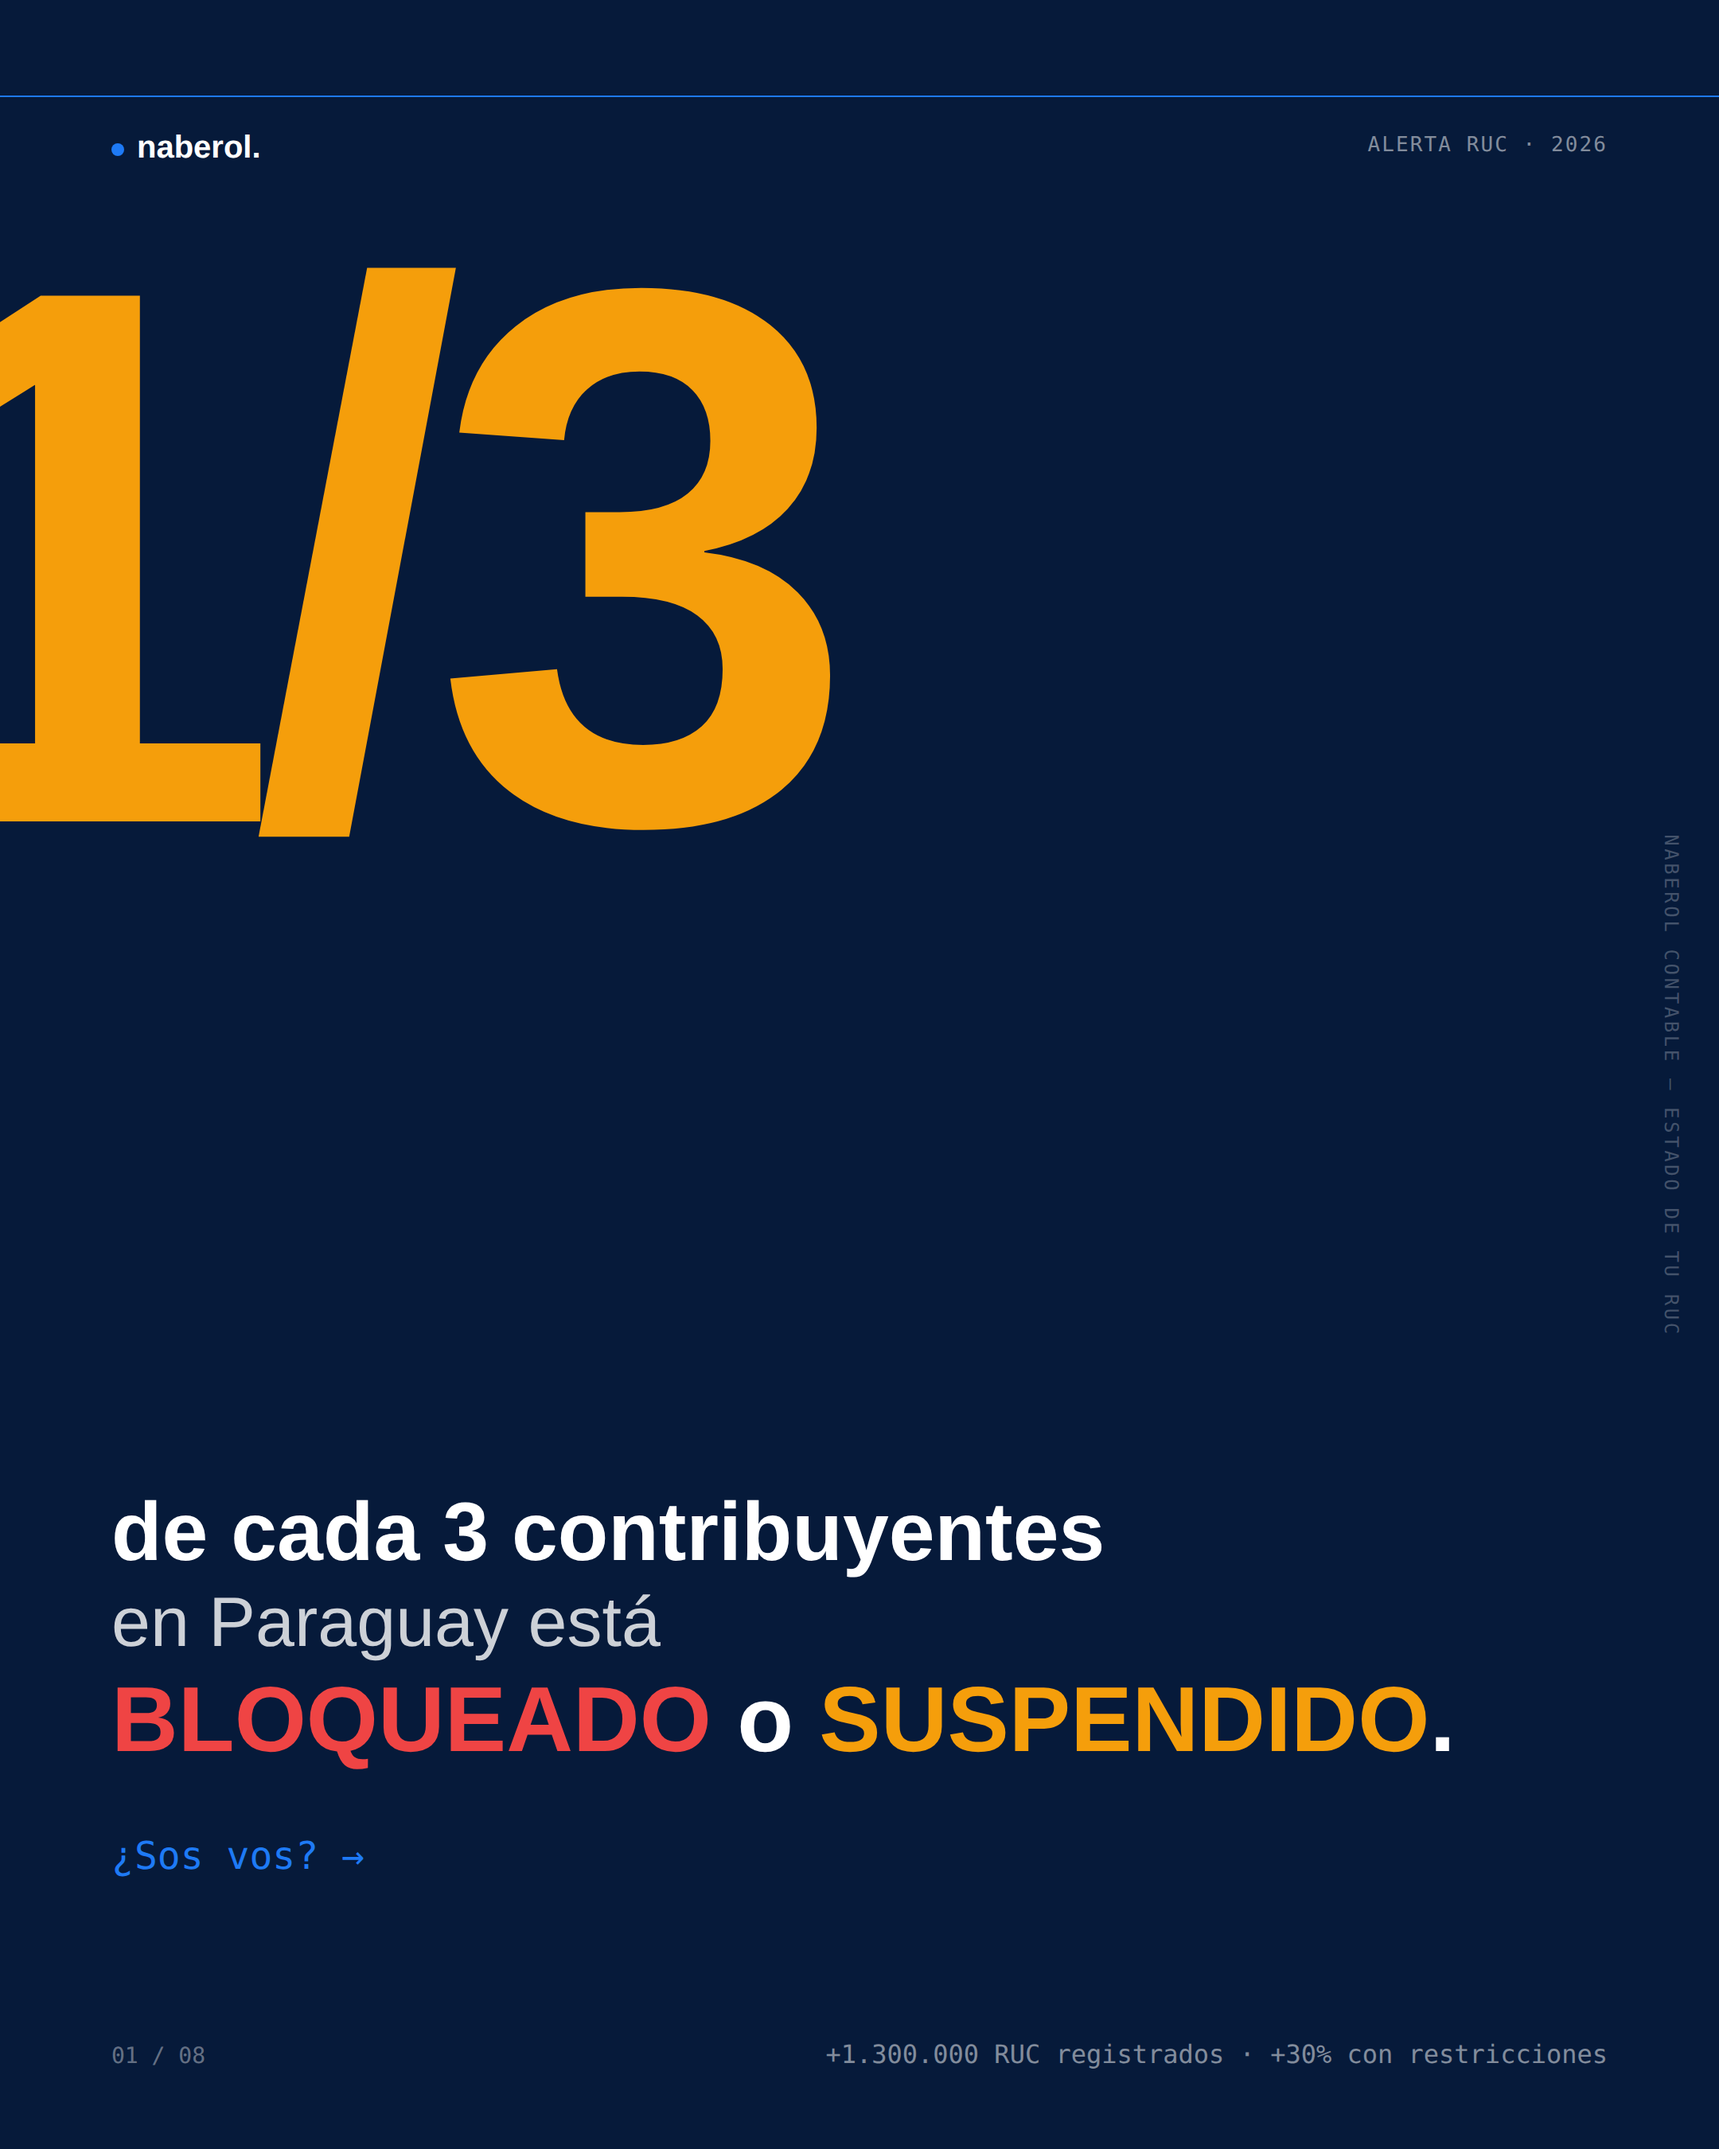
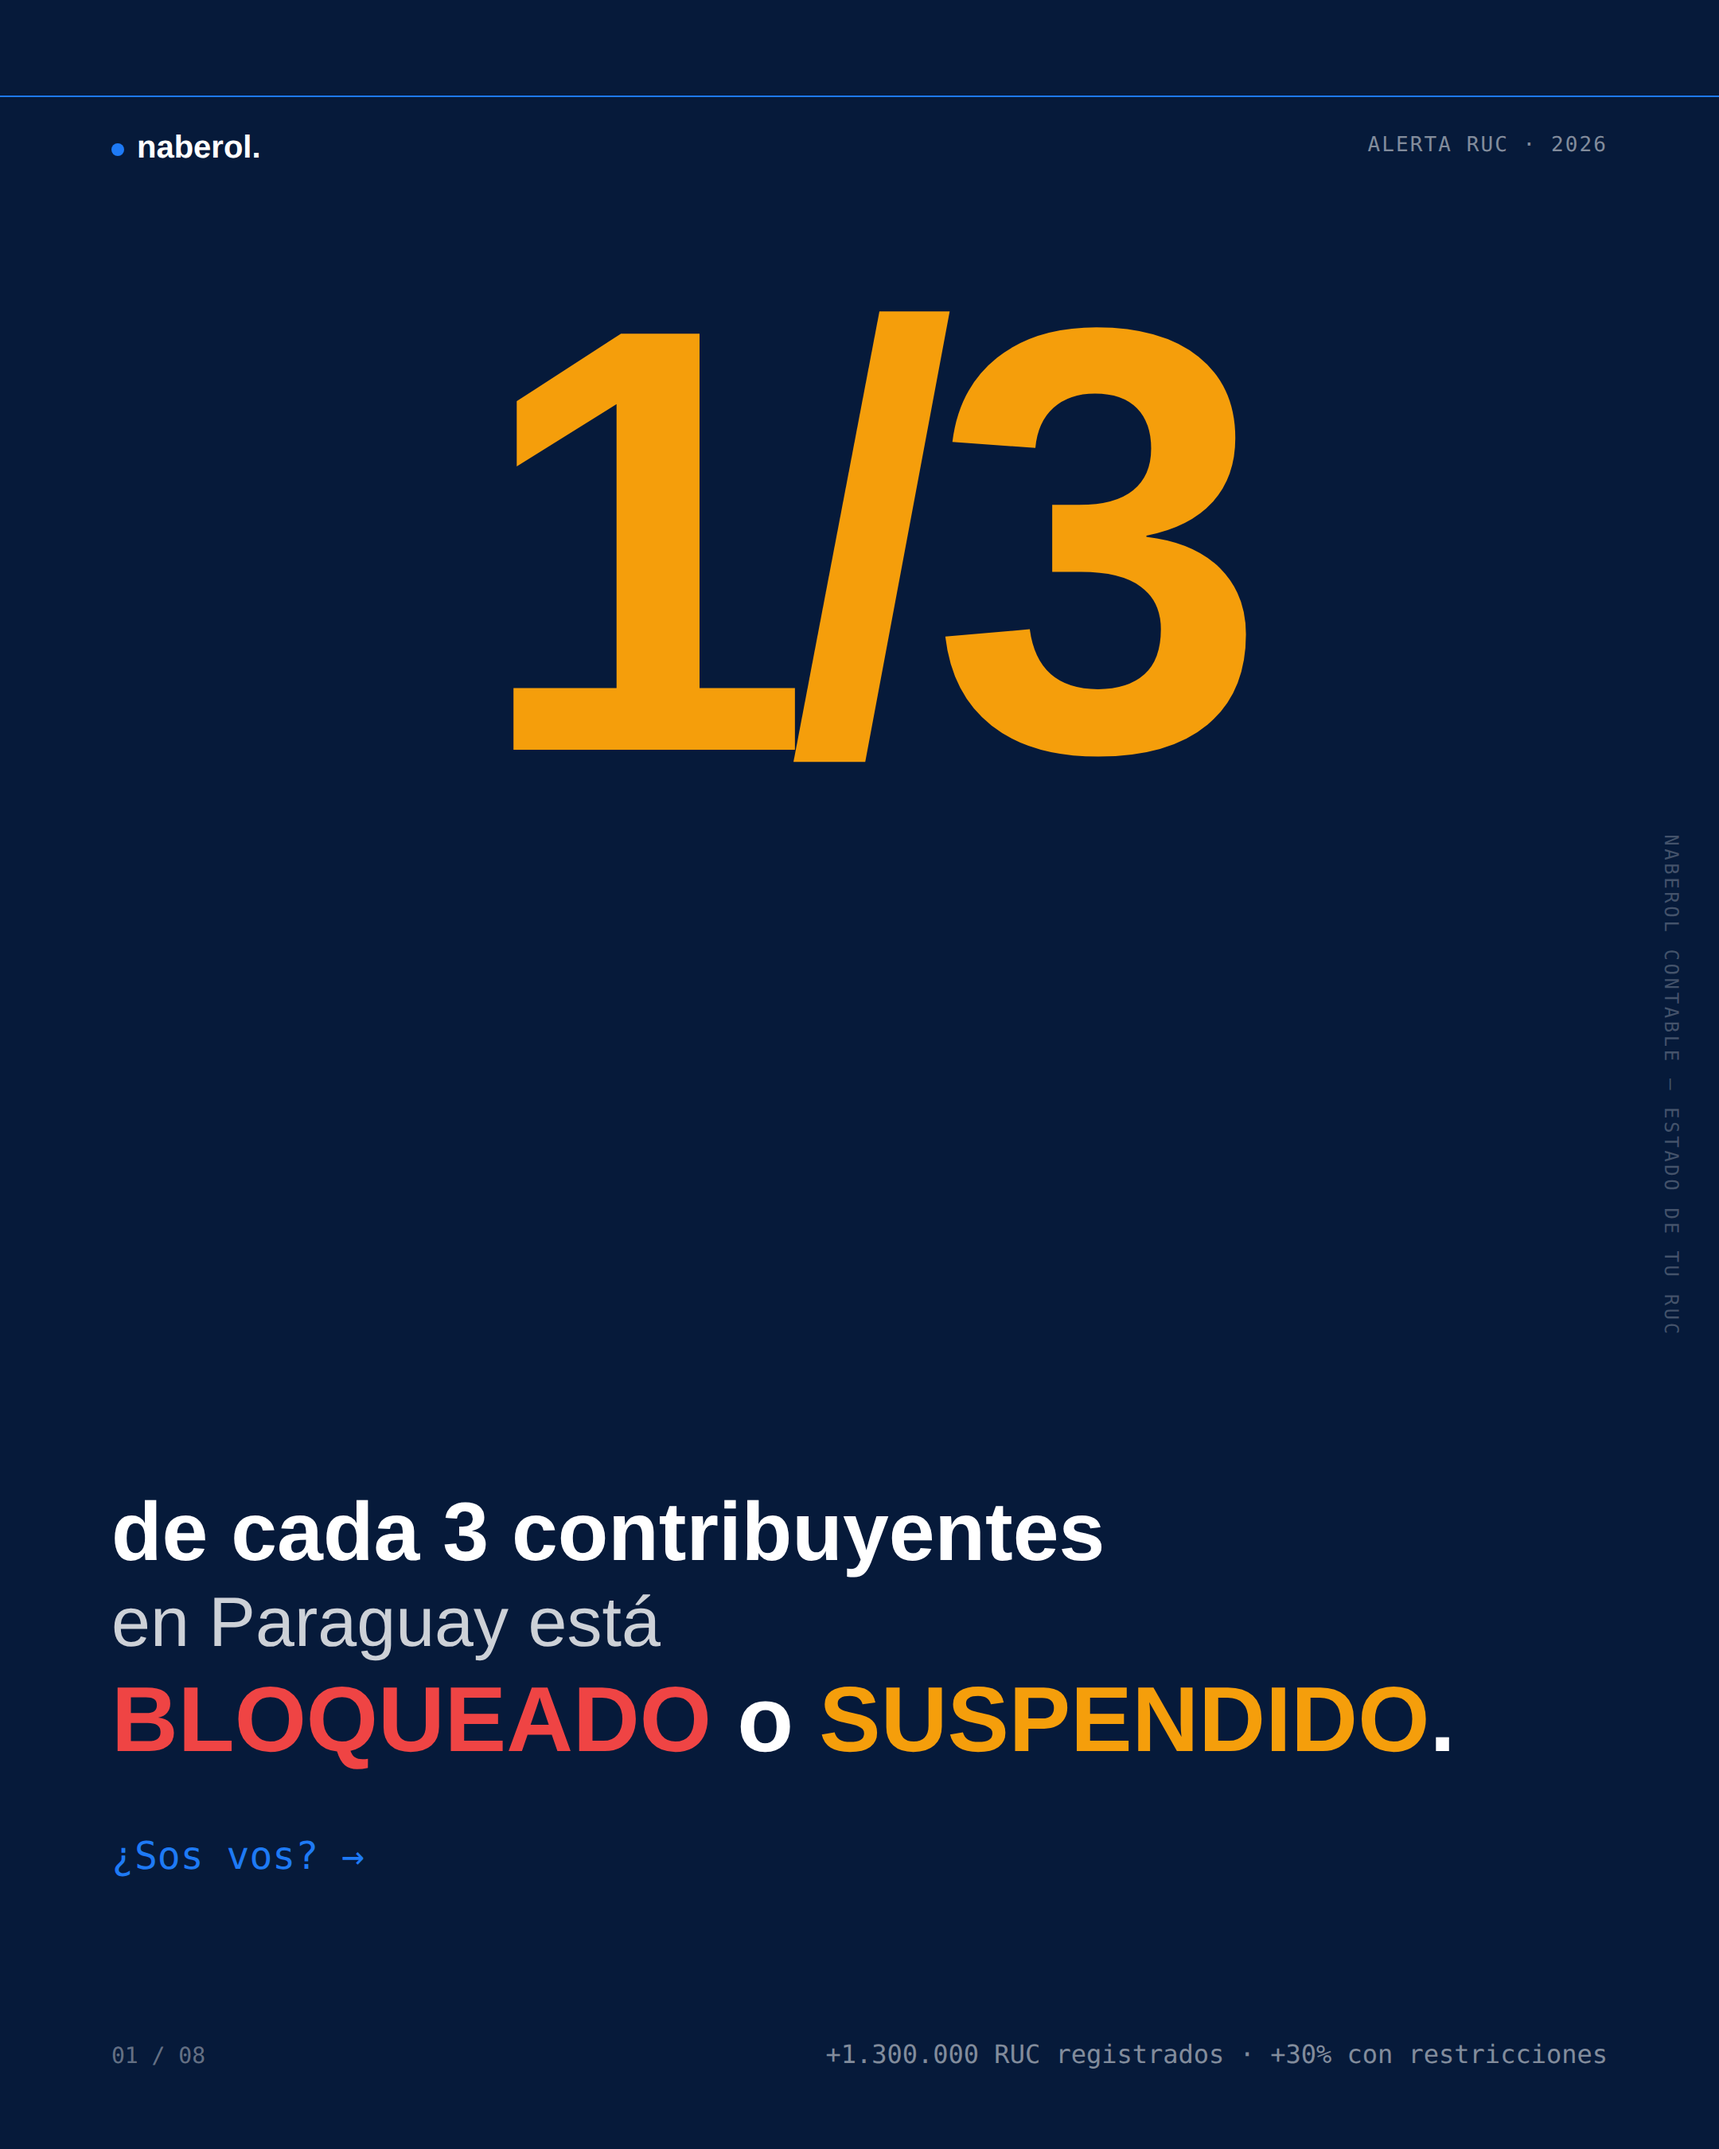
Fix slide 1 of carrusel_editorial: center 1/3 so it fits fully
https://claude.ai/code/session_01WPWfe4EZELcFe8TNQ5FzCm

Changed region(s): [[0.0, 0.1244, 0.7444, 0.4044]]

diff --git a/carrusel_editorial.html b/carrusel_editorial.html
@@ -109,9 +109,10 @@
   /* ════════ SLIDE 1 ════════ */
   #e1 .giant-frac {
     position: absolute;
-    top: 110px; left: -90px;
+    top: 150px; left: 0; right: 0;
+    text-align: center;
     font-weight: 700;
-    font-size: 480px;
+    font-size: 380px;
     line-height: 1;
     color: #F59E0B;
     letter-spacing: -0.04em;
